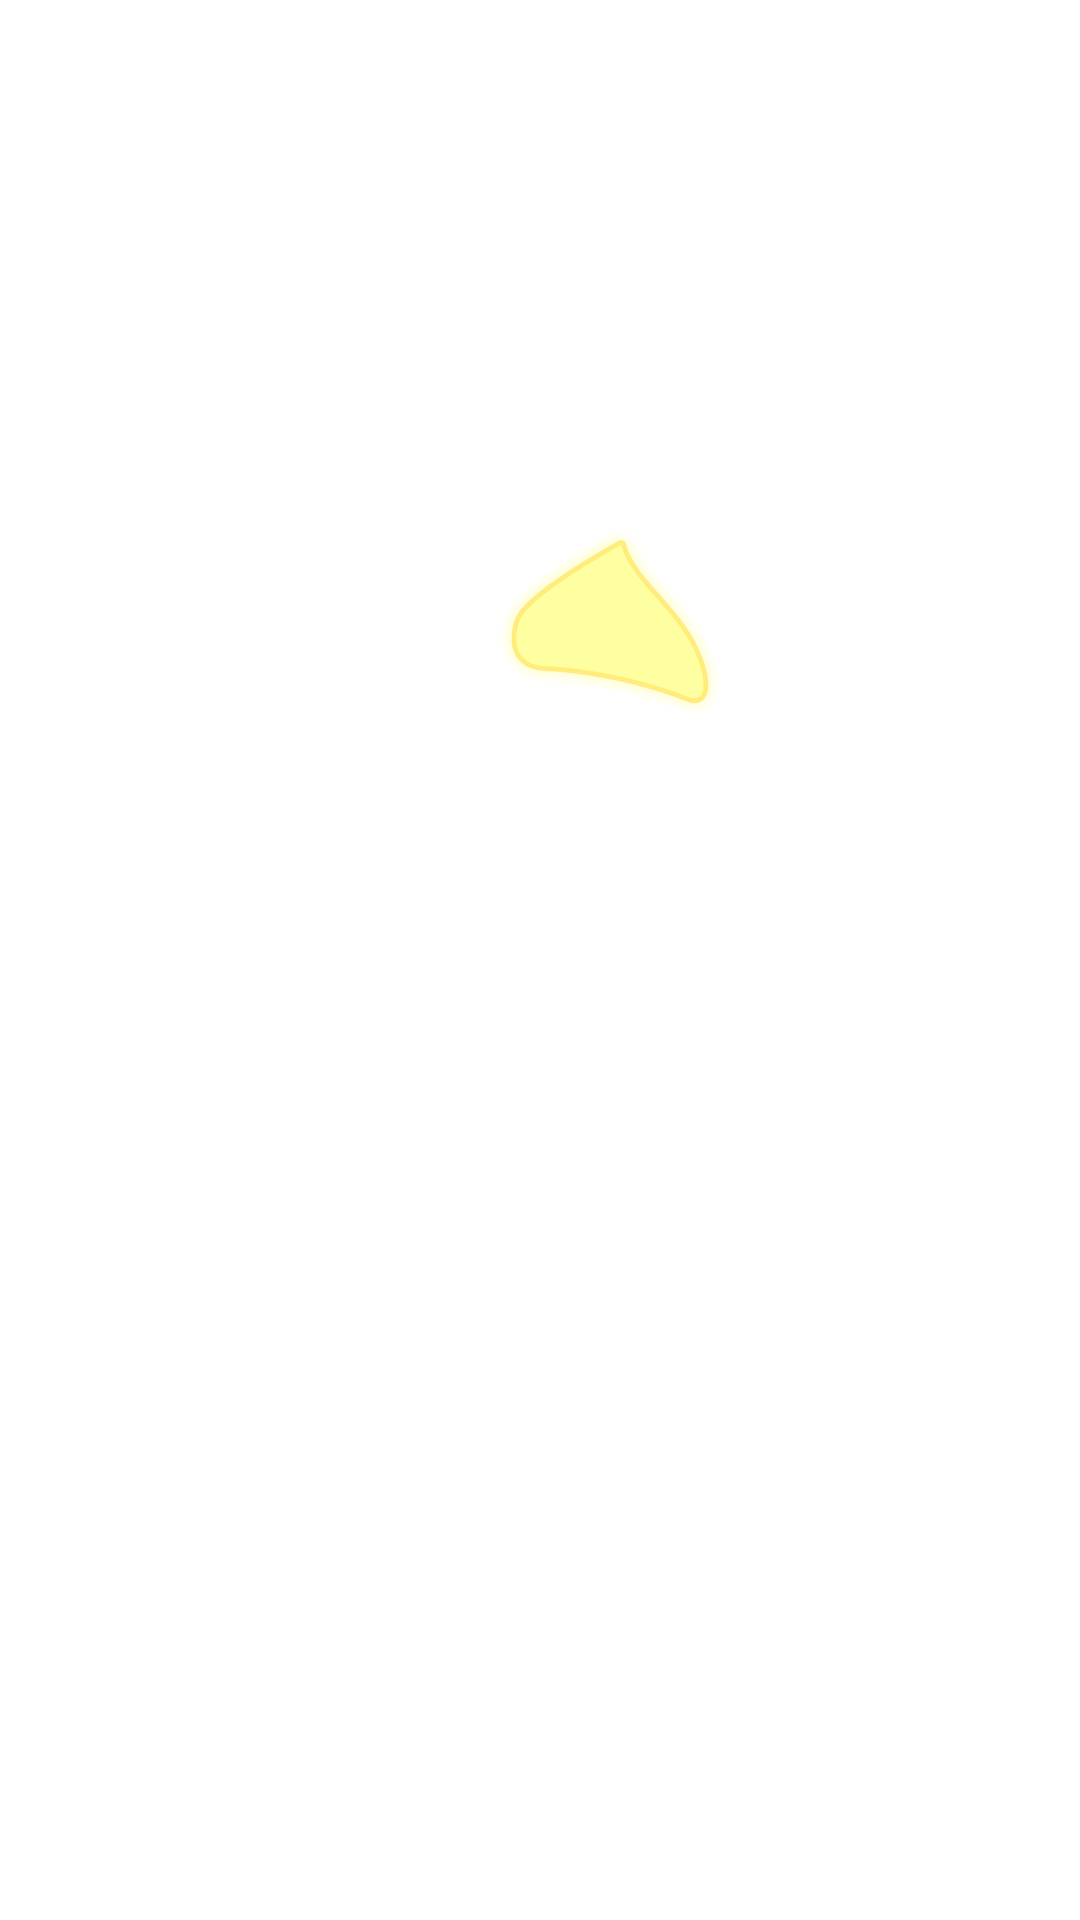
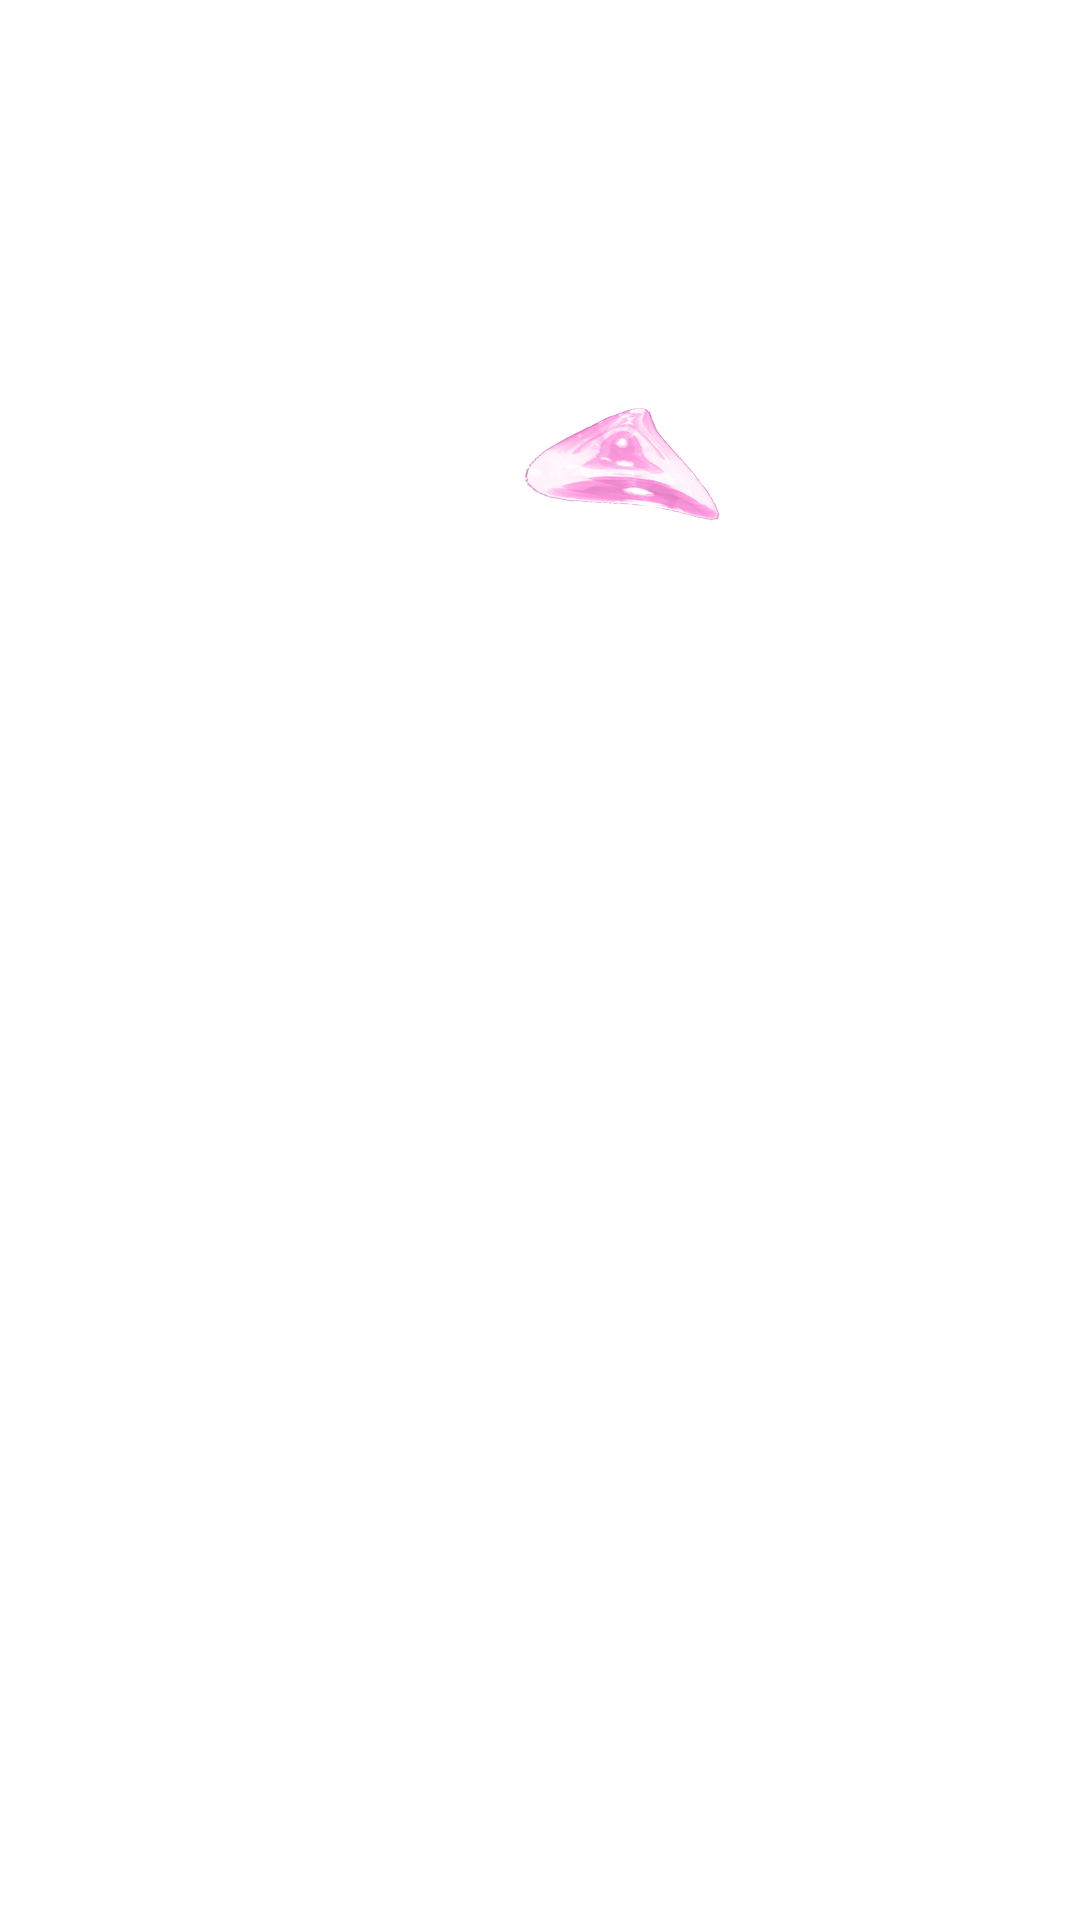
Update assets

Changed region(s): [[0.4583, 0.1875, 0.6722, 0.375]]

diff --git a/app/pages/power-skin-up.js b/app/pages/power-skin-up.js
@@ -12,24 +12,23 @@ pageStack.set('power-skin-up', {
     Animator.fadeIn(container.find(".drop"), incrementer.last()).done(function() {
       Animator.fadeOut(container.find(".drop")).done()
       Animator.fadeIn(container.find(".drop-down")).done()
-      Animator.performAction(completionHandler, 400)
+      Animator.fadeIn(container.find(".drop-down-bottom"),400).done()
+      Animator.performAction(completionHandler, 1600)
     })
   },
   dismissScene1: function(self) {
     var container = self.find(".scene-1")
-    Animator.fadeOut(container.find(".cell")).done()
-    Animator.fadeOut(container.find(".drop-down")).done()
+    Animator.fadeOut(container).done()
   },
   enterScene2: function(self, incrementer, completionHandler) {
     incrementer.reset()
     var container = self.find(".scene-2")
     Animator.fadeIn(container.find(".cell"), incrementer.next()).done()
-    Animator.fadeIn(container.find(".mitochondria"), incrementer.last()).done()
-    Animator.fadeIn(container.find(".drop"), incrementer.last()).done()
+    Animator.fadeIn(container.find(".mitochondria"), incrementer.next(300)).done()
     Animator.performAction(function() {
       container.find(".mitochondria").removeClass("fadeIn")
       Animator.bounceIn(container.find(".mitochondria")).done()
-    }, incrementer.next(2000))
+    }, incrementer.next(1000))
     Animator.fadeIn(container.find(".light"), incrementer.next()).done()
     Animator.bounceIn(container.find(".text"), incrementer.next()).done(completionHandler)
   }

diff --git a/style/pages.less b/style/pages.less
@@ -174,16 +174,16 @@
     .drop-down {
       content: url(../images/power-skin-up/1/drop_down.png);
     }
+    .drop-down-bottom {
+      content: url(../images/power-skin-up/1/drop_down_bottom.png);
+    }
   }
   .scene-2 {
-    .cell {
-      content: url(../images/power-skin-up/2/cell.png);
-    }
     .mitochondria {
       content: url(../images/power-skin-up/2/mitochondria.png);
     }
-    .drop {
-      content: url(../images/power-skin-up/2/drop.png);
+    .cell {
+      content: url(../images/power-skin-up/2/cell.png);
     }
     .light {
       content: url(../images/power-skin-up/2/light.png);

diff --git a/main.html b/main.html
@@ -125,11 +125,11 @@
 					<img class="cell" />
 					<img class="drop" />
 					<img class="drop-down" />
+					<img class="drop-down-bottom" />
 				</div>
 				<div class="scene-2 box">
 					<img class="cell" />
 					<img class="mitochondria" />
-					<img class="drop" />
 					<img class="light" />
 					<img class="text" />
 				</div>
